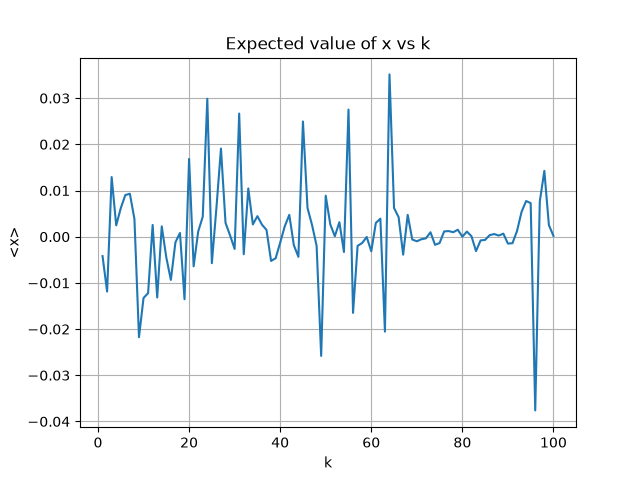
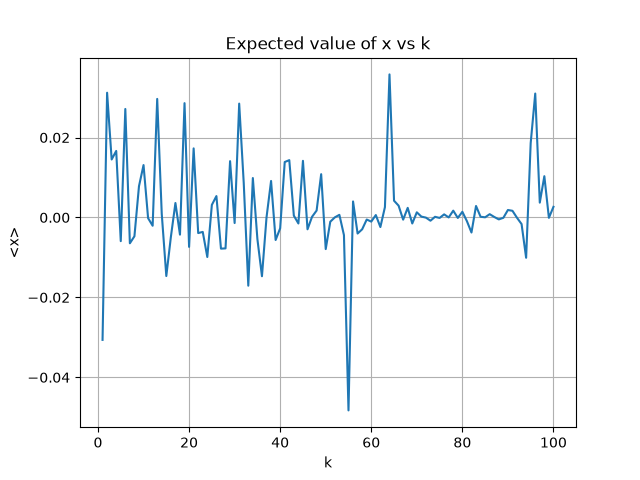
fiddling

diff --git a/RMHMC.py b/RMHMC.py
@@ -3,13 +3,16 @@ import matplotlib.pyplot as plt
 
 class RMHMC:
     # Define the variables to be used
-    def __init__(self, G=None, L=None, eps=None, k=None, lam=None):
-        self.G = G
+    def __init__(self, L=None, eps=None, k=None, lam=None):
         self.L = L
         self.eps = eps
         self.k = k
         self.lam = lam
-    
+        
+    # Define the metric tensor to be used
+    def G(self, x):
+        return np.array(0.5*self.k + 0.5*self.lam*x**2)
+
     # Define the kinetic energy function (with correction)
     def K_eff(self, p, G):
         return 0.5*[email redacted](G)@p + 0.5*np.log(2*np.pi*np.linalg.det(G))
@@ -29,9 +32,9 @@ class RMHMC:
         # Start the loop to generate x values
         for t in range(n+1):
             # Draw the momentum from a Normal distribution
-            p = np.random.normal(0, self.G)
+            p = np.random.normal(0, self.G(x[t]))
             # Compute the first leapfrog step
-            p_star = p - 0.5*self.eps*(self.k*x[t] + self.lam*x[t]**3 +)
+            p_star = p - 0.5*self.eps*(self.k*x[t] + self.lam*x[t]**3 + self.lam )
             x_star = x[t] + self.eps*p_star/self.G
             # Compute (x*, - p*) using L leapfrog steps of size eps
             for l in range(1, self.L):